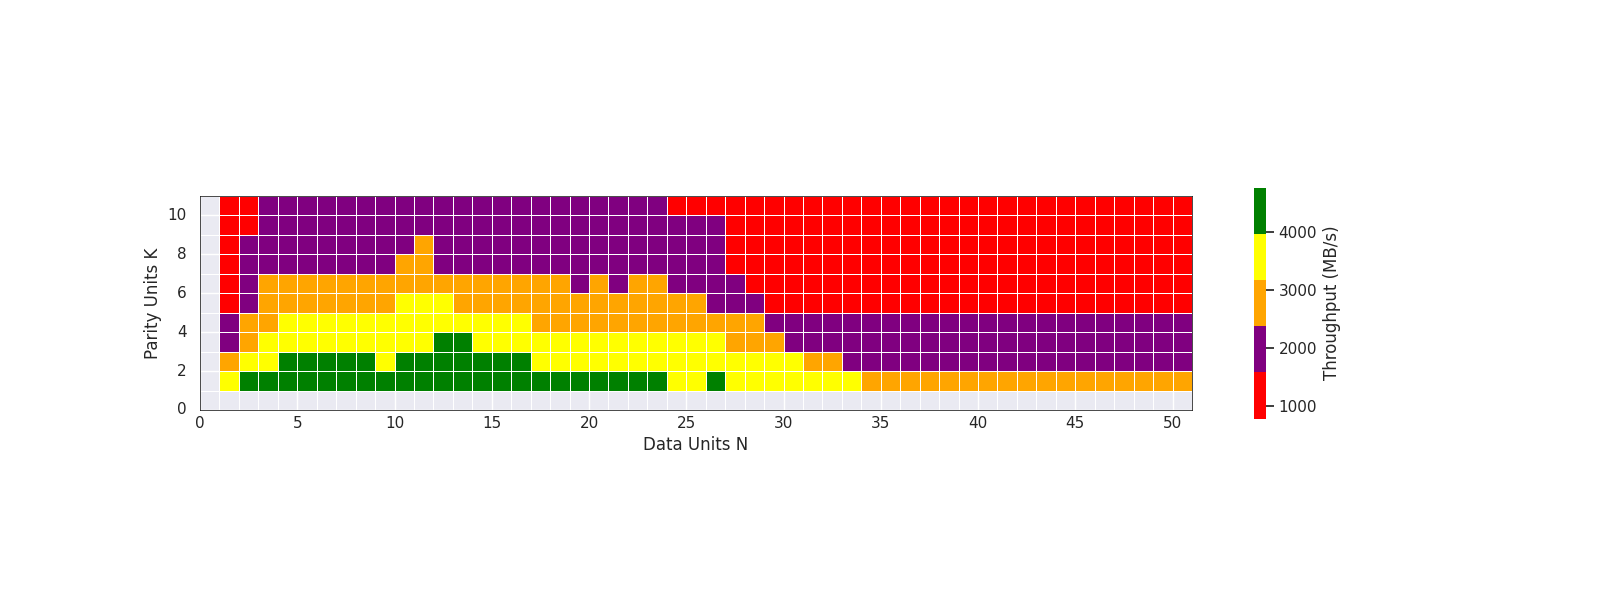
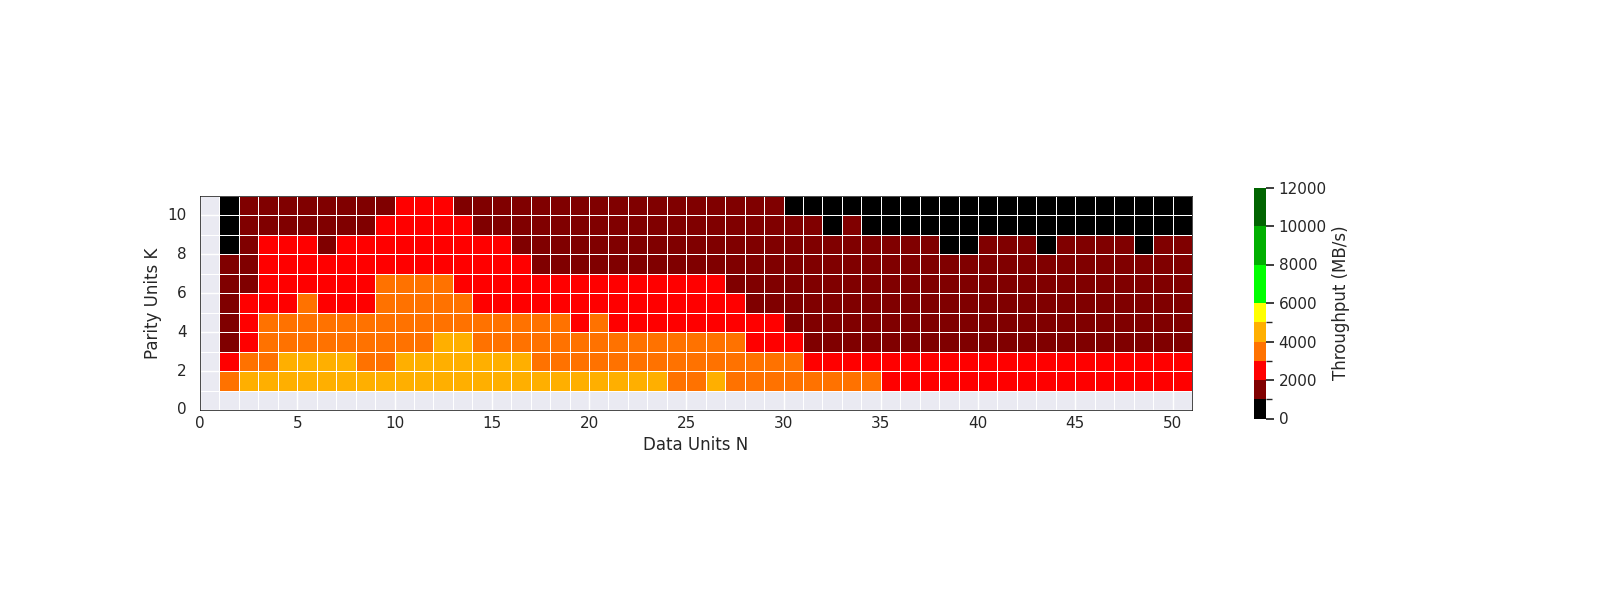
[Figures]: Added fixed net 10+2 MLEC. [Data]: Added 10+2 to fixed net MLEC.

Changed region(s): [[0.125, 0.33, 0.75, 0.66], [0.7812, 0.3, 0.8438, 0.72]]

diff --git a/scripts/heatmap.py b/scripts/heatmap.py
@@ -16,21 +16,21 @@ def ReadData():
 
     lines = func.GetLines()
     for line in lines[1:]:
-        n, k, throughput = line.split(",")
-        n = int(n)
-        k = int(k)
-        throughput, _ = throughput.split("\n")
-        # Populate array with throughput data.
-        array[k][n] = float(throughput)
-        # net_n, net_k, loc_n, loc_k, throughput = line.split(",")
-        # net_n = int(net_n)
-        # net_k = int(net_k)
-        # loc_n = int(loc_n)
-        # loc_k = int(loc_k)
-        # if (net_n = 10) and (net_k = 2):
-        #     throughput, _ = throughput.split("\n")
-        #     # Populate array with throughput data.
-        #     array[loc_k][loc_n] = float(throughput)
+        # n, k, throughput = line.split(",")
+        # n = int(n)
+        # k = int(k)
+        # throughput, _ = throughput.split("\n")
+        # # Populate array with throughput data.
+        # array[k][n] = float(throughput)
+        net_n, net_k, loc_n, loc_k, throughput = line.split(",")
+        net_n = int(net_n)
+        net_k = int(net_k)
+        loc_n = int(loc_n)
+        loc_k = int(loc_k)
+        if (net_n == 10) and (net_k == 2):
+            throughput, _ = throughput.split("\n")
+            # Populate array with throughput data.
+            array[loc_k][loc_n] = float(throughput)
 
     return array
 

diff --git a/scripts/config/constants.py b/scripts/config/constants.py
@@ -43,12 +43,12 @@ THROUGHPUT_FILE = "throughput.log"
 
 # Output file path for data generation.
 # MAKE SURE TO CHANGE THIS WHEN NEEDED.
-OUTPUT_PATH = ISA_L_SLEC
-# OUTPUT_PATH = "data/fixed_net_isa-l_mlec.csv"
+# OUTPUT_PATH = ISA_L_SLEC
+OUTPUT_PATH = "data/fixed_net_isa-l_mlec.csv"
 
 # Output image for heatmap.
-HEATMAP_PATH = "figures/SLEC_heatmap.png"
-# HEATMAP_PATH = "figures/fix_net_10+2_MLEC_heatmap.png"
+# HEATMAP_PATH = "figures/SLEC_heatmap.png"
+HEATMAP_PATH = "figures/fix_net_10+2_MLEC_heatmap.png"
 
 # Input file path to read data from.
 DURABILITY_DATA = "data/durability.csv"
